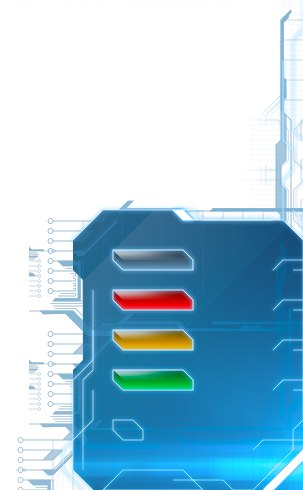
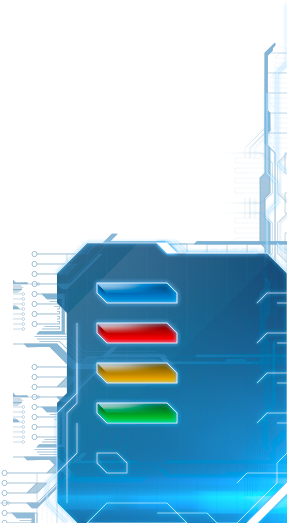
больше голубого!

diff --git a/sitcenter/frontend/css/master.css b/sitcenter/frontend/css/master.css
@@ -120,8 +120,8 @@ header h1 {
 #content .legend {
 	position: absolute;
 	background: url("../images/legend.png") right bottom no-repeat;
-	height: 490px;
-	width: 303px;
+	height: 523px;
+	width: 287px;
 	display: none;
 	bottom: 0px;
 	right: 0px;
@@ -135,7 +135,7 @@ header h1 {
 	padding: 12px 0px 11px 210px;
 }
 #content .legend p:first-child {
-	margin-top: 240px;
+	margin-top: 270px;
 }
 #content .legend a {
 	font-family: 'NeoSansPro-Light';
